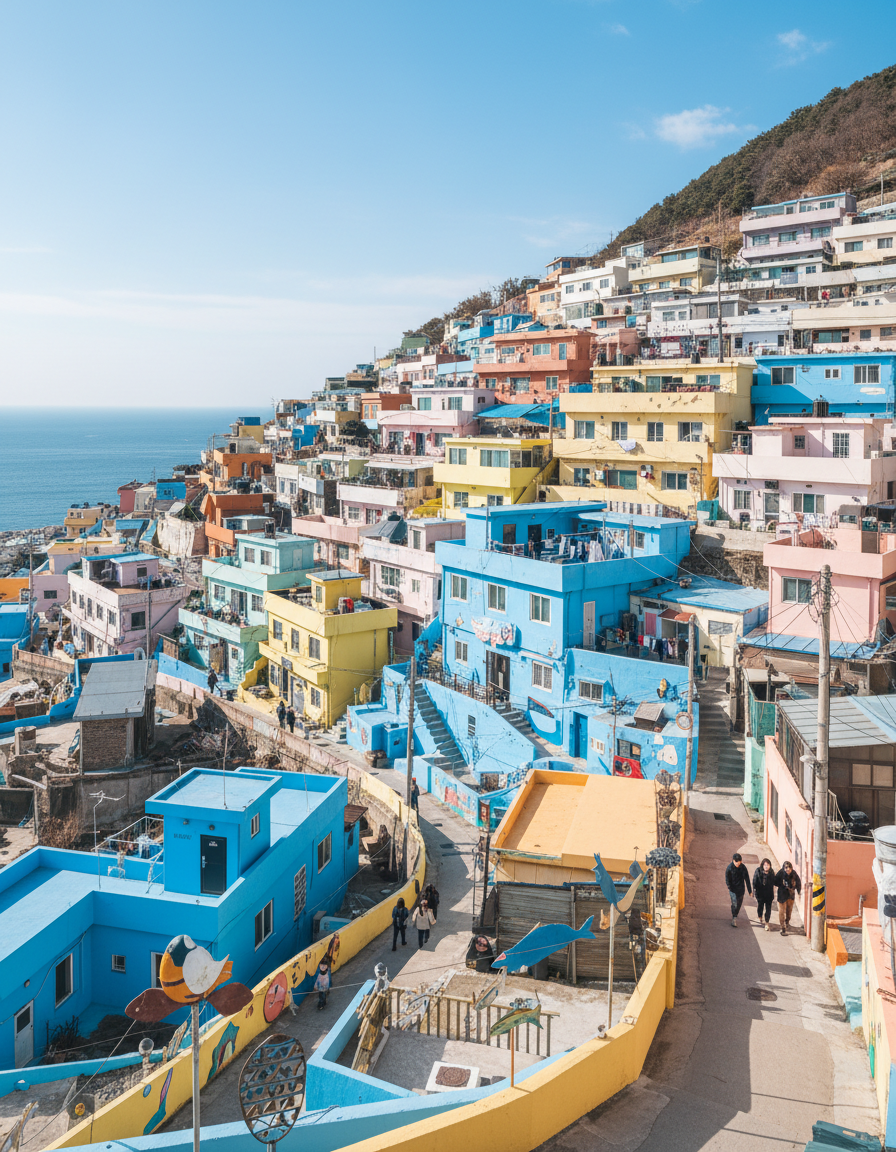
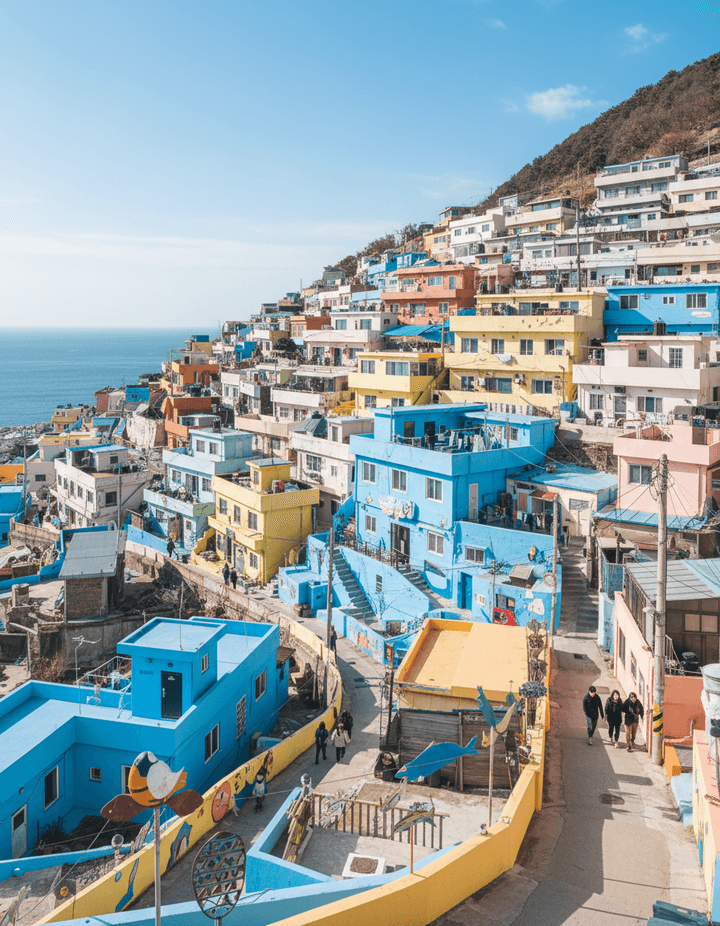
fix: [Front] 홈 화면 사용자 리포트 4건 — 배지 겹침·이미지 용량·재생 표시·플로팅 버튼 UX
사용자가 실제 화면 스크린샷과 함께 보고한 문제들을 확인하고 고쳤다.

- 전역 언어 배지(GlobalLanguageBadge)가 홈 화면의 알림 종 버튼과 같은
  우측 상단 자리를 차지해 겹쳐 보였다. 홈 헤더에 marginTop을 줘서 배지
  아래로 내렸다.
- 홈 추천 카드 이미지(gamcheon·gwangalli·haeundae)가 압축 없이
  1.1~1.8MB로 들어가 있어 카드가 빈 채로 한참 보이다가 늦게 채워졌다.
  720px 폭으로 리사이즈하고 팔레트 압축해 11~20% 크기로 줄였다(화질
  차이는 카드 크기에서 감지되지 않는다).
- "한국어로 말하기"에서 "느리게"를 눌러도 "보통" 버튼의 라벨만
  "재생 중"으로 바뀌는 버그 — 둘 다 같은 phrase.id로 재생 상태를
  판정해서 어느 버튼을 눌렀는지 구분하지 못했다. 속도(rate)도 함께
  비교하도록 고쳤다.
- 홈 화면 우측 하단에 "현장 도구" 칩이 "도움이 필요해?"(AI 챗봇) 버튼
  바로 위에 떠 있어, 같은 메뉴의 일부처럼 보이지만 실제로는 서로 다른
  화면(채팅 대 현장 도구)으로 가서 혼동된다는 지적 — 챗봇 버튼과
  시각적으로 완전히 분리해, 축제·지금 갈 곳·로컬 탐색과 같은 자리(상단
  퀵 액션 바)로 옮겼다.

Changed region(s): [[0.9472, 0.9071, 0.9778, 0.9374], [0.3972, 0.514, 0.4278, 0.5443], [0.3667, 0.5443, 0.3972, 0.5745]]

diff --git a/frontend/app/(tabs)/home.tsx b/frontend/app/(tabs)/home.tsx
@@ -40,6 +40,7 @@ const arrowRightIcon = require('../../assets/icons/home/arrow-right.png');
 const festivalIcon = require('../../assets/icons/common/festival.png');
 const compassWhiteIcon = require('../../assets/icons/common/compass-white.png');
 const mapIcon = require('../../assets/icons/home/map.png');
+const speakerIcon = require('../../assets/icons/common/speaker.png');
 const SAVED_PLACES_KEY = 'gabolle.saved-home-places';
 
 function RecommendationCard({ item, index, liked, onToggleLike, desktop }: {
@@ -150,6 +151,14 @@ export default function Home() {
           <View style={styles.barLabel}><Image source={mapIcon} resizeMode="contain" style={styles.barIcon} /><Text variant="body" weight="medium" color={color.text.heading}>{tx('축제·야시장 등 로컬 8종 둘러보기', 'Explore 8 local categories')}</Text></View><Text weight="bold" color={color.brand.orange}>›</Text>
         </Pressable>
 
+        {/* 예전에는 이 자리 대신 채팅 버튼 위에 떠 있는 작은 칩이었다 — 챗봇 버튼과 겹쳐 쌓여
+            있어 하나의 메뉴처럼 보이는데 실제로는 서로 다른 곳(채팅 대 현장 도구 화면)으로
+            가서 헷갈린다는 지적(S15P21E201 사용자 리포트)이 있었다. 위 세 줄(축제·지금 갈 곳·
+            로컬 탐색)과 같은 자리로 옮겨, 챗봇 버튼과는 시각적으로 완전히 분리했다. */}
+        <Pressable accessibilityRole="button" accessibilityLabel={tx('현장 도구 열기', 'Open on-the-go tools')} accessibilityHint={tx('현장 말하기와 메뉴판 번역을 한곳에서 씁니다', 'Use on-the-go phrases and menu translation in one place')} onPress={() => router.push('/field/translate')} style={({ pressed }) => [styles.fieldToolsBar, pressed && styles.weatherBarPressed]}>
+          <View style={styles.barLabel}><Image source={speakerIcon} resizeMode="contain" style={styles.barIcon} /><Text variant="body" weight="medium" color={color.text.heading}>{tx('현장 도구 — 말하기·번역', 'On-the-go tools — phrases & translation')}</Text></View><Text weight="bold" color={color.brand.orange}>›</Text>
+        </Pressable>
+
         <View style={styles.heading}>
           <Text variant="display" weight="bold" color={color.text.heading} style={styles.headingTitle}>{tx('오늘 어디 가볼래?', 'Where shall we go today?')}</Text>
           <Text variant="body" color={color.text.muted}>{tx('AI가 취향에 맞는 부산 여행을 제안해드려요', 'AI suggests a Busan trip that matches your taste')}</Text>
@@ -185,7 +194,6 @@ export default function Home() {
       </ScrollView>
 
       <View style={styles.floatingStack}>
-        <Pressable accessibilityRole="button" accessibilityLabel={tx('현장 도구 열기', 'Open on-the-go tools')} accessibilityHint={tx('현장 말하기와 메뉴판 번역을 한곳에서 씁니다', 'Use on-the-go phrases and menu translation in one place')} onPress={() => router.push('/field/translate')} style={({ pressed }) => [styles.floatingChip, pressed && styles.assistantButtonPressed]}><Text variant="caption" weight="bold" color={color.text.heading}>{tx('현장 도구', 'On-the-go tools')}</Text></Pressable>
         <Pressable
           accessibilityRole="button"
           accessibilityLabel={tx('가볼래 여행 도우미 열기', 'Open GABOLLE travel assistant')}
@@ -206,7 +214,10 @@ export default function Home() {
 const styles = StyleSheet.create({
   shell: { flex: 1, backgroundColor: color.canvas },
   screenContent: { paddingTop: spacing[2], paddingBottom: spacing[3] },
-  header: { minHeight: 52, flexDirection: 'row', alignItems: 'center', justifyContent: 'space-between' },
+  // marginTop: 우측 상단에 전역 언어 배지(GlobalLanguageBadge)가 떠 있어서, 이 화면처럼
+  // 알림종을 헤더 오른쪽 끝에 두면 배지가 그 위에 겹쳐 종이 안 보인다(S15P21E201 사용자
+  // 리포트). 배지가 끝나는 자리 아래로 헤더를 내려서 겹치지 않게 한다.
+  header: { minHeight: 52, marginTop: spacing[6], flexDirection: 'row', alignItems: 'center', justifyContent: 'space-between' },
   logo: { width: 100, height: 22 },
   bell: { width: 40, height: 40, borderRadius: radius.full, backgroundColor: color.surface.soft, alignItems: 'center', justifyContent: 'center' },
   bellIcon: { width: 20, height: 20 },
@@ -217,6 +228,7 @@ const styles = StyleSheet.create({
   weatherBarPressed: { opacity: 0.78, transform: [{ scale: 0.99 }] },
   nowBar: { minHeight: 44, marginTop: spacing[2], paddingHorizontal: spacing[4], borderRadius: radius.full, backgroundColor: color.brand.navy, flexDirection: 'row', alignItems: 'center', justifyContent: 'space-between' },
   exploreBar: { minHeight: 44, marginTop: spacing[2], paddingHorizontal: spacing[4], borderRadius: radius.full, backgroundColor: color.surface.card, borderWidth: 1, borderColor: color.surface.field, flexDirection: 'row', alignItems: 'center', justifyContent: 'space-between' },
+  fieldToolsBar: { minHeight: 44, marginTop: spacing[2], paddingHorizontal: spacing[4], borderRadius: radius.full, backgroundColor: color.surface.soft, flexDirection: 'row', alignItems: 'center', justifyContent: 'space-between' },
   heading: { gap: spacing[1], marginTop: spacing[4], marginHorizontal: spacing[1] },
   headingTitle: { fontSize: 28, lineHeight: 34 },
   carousel: { gap: spacing[3], paddingHorizontal: spacing[1], paddingVertical: spacing[4] },
@@ -241,7 +253,6 @@ const styles = StyleSheet.create({
   // 뒀었는데, 그 값이 탭바 높이를 감안 안 해서 화면 중간쯤에 떠 있었다(실기기 확인).
   // 이제 탭바 바로 위(spacing[2])에 붙이고, 그 위로 자주 쓰는 현장 도구 두 개를 쌓는다.
   floatingStack: { position: 'absolute', right: spacing[2], bottom: spacing[2], alignItems: 'flex-end', gap: spacing[2], zIndex: 3 },
-  floatingChip: { minHeight: 40, justifyContent: 'center', paddingHorizontal: spacing[4], borderRadius: radius.full, backgroundColor: color.surface.card, borderWidth: 1, borderColor: color.surface.field, shadowColor: color.brand.navy, shadowOpacity: 0.12, shadowRadius: 8, shadowOffset: { width: 0, height: 3 }, elevation: 3 },
   assistantButton: { minWidth: 44, minHeight: 44, flexDirection: 'row', alignItems: 'center' },
   assistantButtonPressed: { opacity: 0.78, transform: [{ scale: 0.96 }] },
   assistantLabel: { marginRight: -spacing[2], paddingLeft: spacing[3], paddingRight: spacing[4], paddingVertical: spacing[2], borderRadius: radius.full, backgroundColor: color.surface.card, borderWidth: 1, borderColor: color.surface.field, shadowColor: color.brand.navy, shadowOpacity: 0.12, shadowRadius: 8, shadowOffset: { width: 0, height: 3 }, elevation: 3 },

diff --git a/frontend/src/components/PlacePhraseBrowser.tsx b/frontend/src/components/PlacePhraseBrowser.tsx
@@ -11,6 +11,9 @@ import { useI18n } from '@/i18n';
 import { defaultTabForCategory, PLACE_PHRASES, PLACE_TABS, type PlacePhrase, type PlaceTabKey } from '@/field/placePhrases';
 import { Text } from './Text';
 
+const NORMAL_RATE = 0.95;
+const SLOW_RATE = 0.55;
+
 type PlacePhraseBrowserProps = {
   category?: string | null;
   onOpenTaxiCard?: () => void;
@@ -22,6 +25,9 @@ export function PlacePhraseBrowser({ category, onOpenTaxiCard }: PlacePhraseBrow
   const [tab, setTab] = useState<PlaceTabKey>(() => defaultTabForCategory(category));
   const [expandedId, setExpandedId] = useState<string | null>(null);
   const [speakingId, setSpeakingId] = useState<string | null>(null);
+  // 속도(rate)도 함께 들고 있는다 — id만 보면 "느리게"를 눌러도 "보통" 버튼이 재생 중으로
+  // 바뀌는 버그가 난다(둘 다 같은 phrase.id를 쓰기 때문). 어느 버튼을 눌렀는지까지 구분한다.
+  const [speakingRate, setSpeakingRate] = useState<number | null>(null);
   // speak()를 빠르게 다시 누르면(같은 문장의 다른 속도, 또는 다른 문장) Speech.stop()이
   // 취소한 "이전" 재생의 onDone/onError가 뒤늦게 도착해 방금 시작한 재생의 상태를
   // null로 덮어쓴다(S15P21E201-771). 매 호출마다 토큰을 새로 발급해 자기 차례가 아니면 무시한다.
@@ -34,10 +40,11 @@ export function PlacePhraseBrowser({ category, onOpenTaxiCard }: PlacePhraseBrow
 
   function speak(phrase: PlacePhrase, rate: number) {
     const token = ++playTokenRef.current;
-    const finish = () => { if (playTokenRef.current === token) setSpeakingId(null); };
+    const finish = () => { if (playTokenRef.current === token) { setSpeakingId(null); setSpeakingRate(null); } };
     try {
       Speech.stop();
       setSpeakingId(phrase.id);
+      setSpeakingRate(rate);
       Speech.speak(phrase.ko, { language: 'ko-KR', rate, onDone: finish, onStopped: finish, onError: finish });
     } catch {
       // 소리 기능이 없는 브라우저에서도 글자는 그대로 보인다.
@@ -71,11 +78,11 @@ export function PlacePhraseBrowser({ category, onOpenTaxiCard }: PlacePhraseBrow
                 <>
                   <Text variant="body" color={color.text.body} style={styles.enText}>{phrase.en}</Text>
                   <View style={styles.speedRow}>
-                    <Pressable accessibilityRole="button" accessibilityLabel={tx('보통 속도로 듣기', 'Listen at normal speed')} onPress={() => speak(phrase, 0.95)} style={styles.speedButton}>
-                      <Text variant="caption" weight="bold" color={color.text.onAction}>{speakingId === phrase.id ? tx('재생 중', 'Playing') : tx('▶ 보통', '▶ Normal')}</Text>
+                    <Pressable accessibilityRole="button" accessibilityLabel={tx('보통 속도로 듣기', 'Listen at normal speed')} onPress={() => speak(phrase, NORMAL_RATE)} style={styles.speedButton}>
+                      <Text variant="caption" weight="bold" color={color.text.onAction}>{speakingId === phrase.id && speakingRate === NORMAL_RATE ? tx('재생 중', 'Playing') : tx('▶ 보통', '▶ Normal')}</Text>
                     </Pressable>
-                    <Pressable accessibilityRole="button" accessibilityLabel={tx('느린 속도로 듣기', 'Listen at slow speed')} onPress={() => speak(phrase, 0.55)} style={[styles.speedButton, styles.speedButtonSlow]}>
-                      <Text variant="caption" weight="bold" color={color.text.onAction}>{tx('▶ 느리게', '▶ Slow')}</Text>
+                    <Pressable accessibilityRole="button" accessibilityLabel={tx('느린 속도로 듣기', 'Listen at slow speed')} onPress={() => speak(phrase, SLOW_RATE)} style={[styles.speedButton, styles.speedButtonSlow]}>
+                      <Text variant="caption" weight="bold" color={color.text.onAction}>{speakingId === phrase.id && speakingRate === SLOW_RATE ? tx('재생 중', 'Playing') : tx('▶ 느리게', '▶ Slow')}</Text>
                     </Pressable>
                   </View>
                 </>
